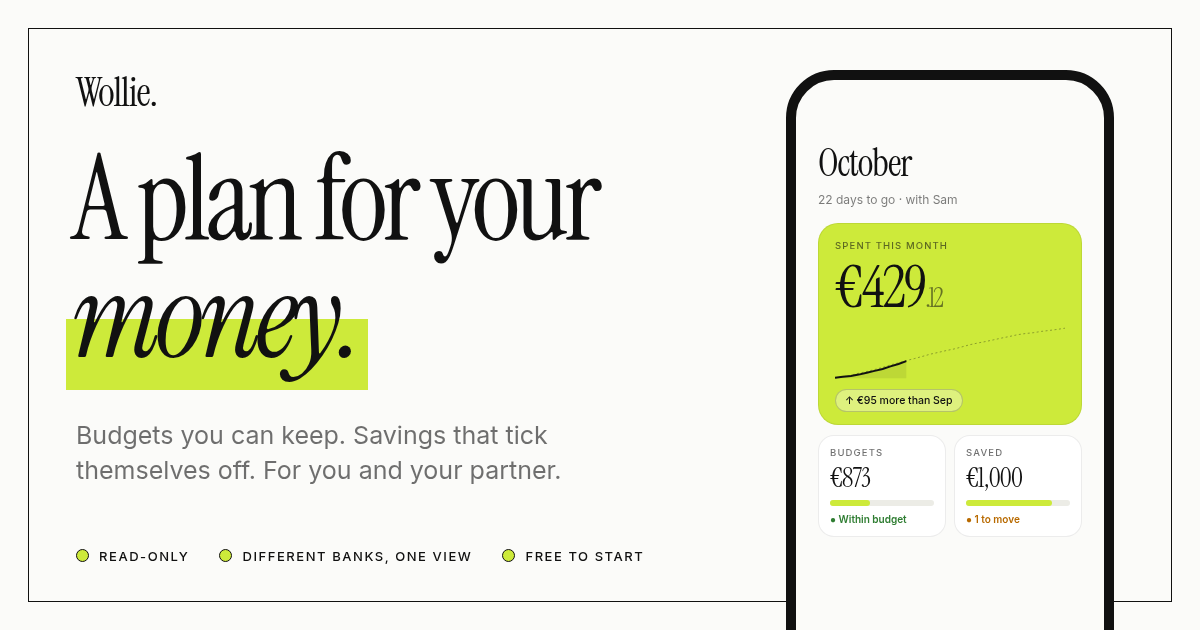
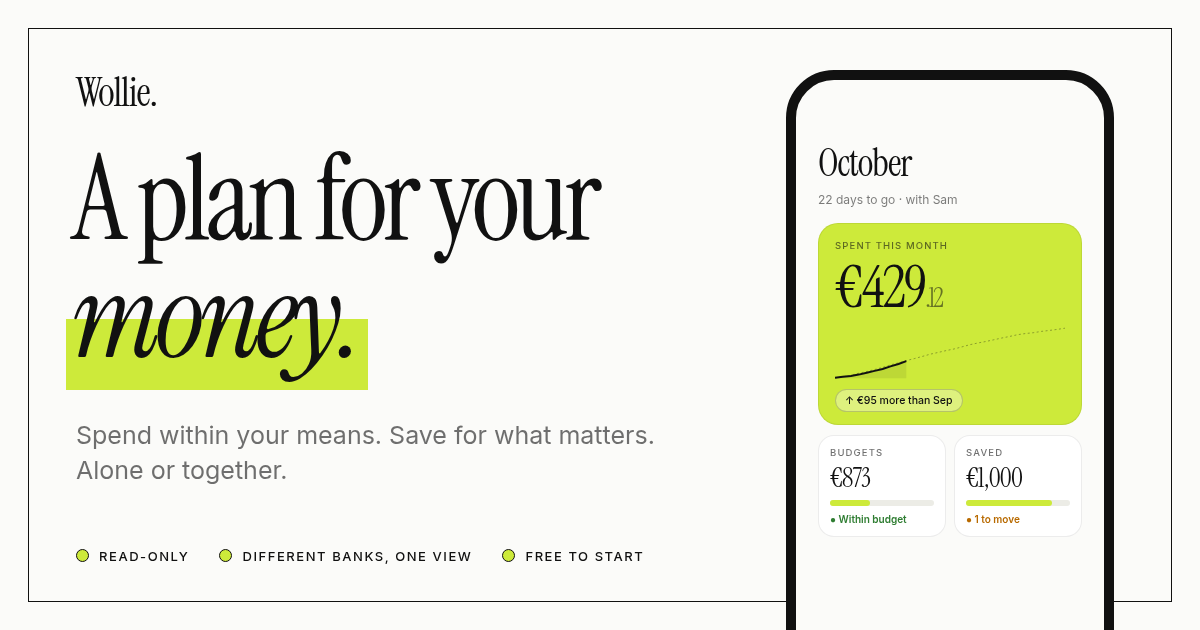
Landing: plainer subline
Claude-Session: https://claude.ai/code/session_019m2DzPychntwfKAqTPrNTF

Changed region(s): [[0.0617, 0.6635, 0.5242, 0.7841]]

diff --git a/src/routes/index.tsx b/src/routes/index.tsx
@@ -31,7 +31,7 @@ const landingMeta = buildPageMeta({
   path: "/",
   title: "A Plan For Your Money",
   description:
-    "Wollie gives your money a plan. Budgets you can keep, savings for what matters that tick themselves off, and one view for couples, even with different banks.",
+    "Wollie gives your money a plan. Spend within your means and save for what matters, alone or together, even with different banks.",
 });
 
 // The phone app has no landing page. The native WebView injects
@@ -592,8 +592,8 @@ function LandingPage() {
               </span>
             </h1>
             <p className="landing-hero__lede rise" style={{ "--d": "420ms" } as CSSProperties}>
-              Budgets you can keep. Savings that tick themselves off. One view
-              for you and your partner, even with different banks.
+              Wollie helps you spend within your means and save for what
+              matters. Alone or together, even with different banks.
             </p>
             <div className="landing-hero__actions rise" style={{ "--d": "560ms" } as CSSProperties}>
               {primaryAction}
